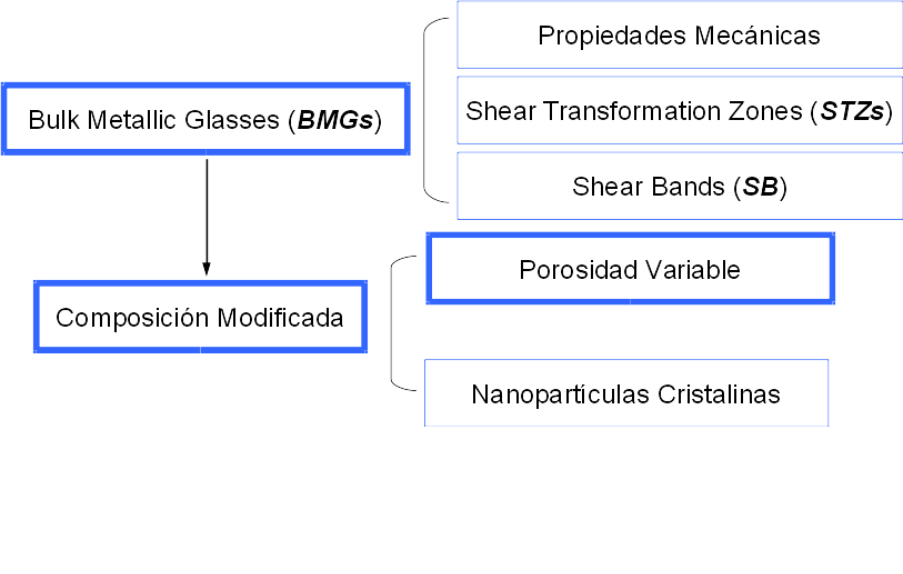
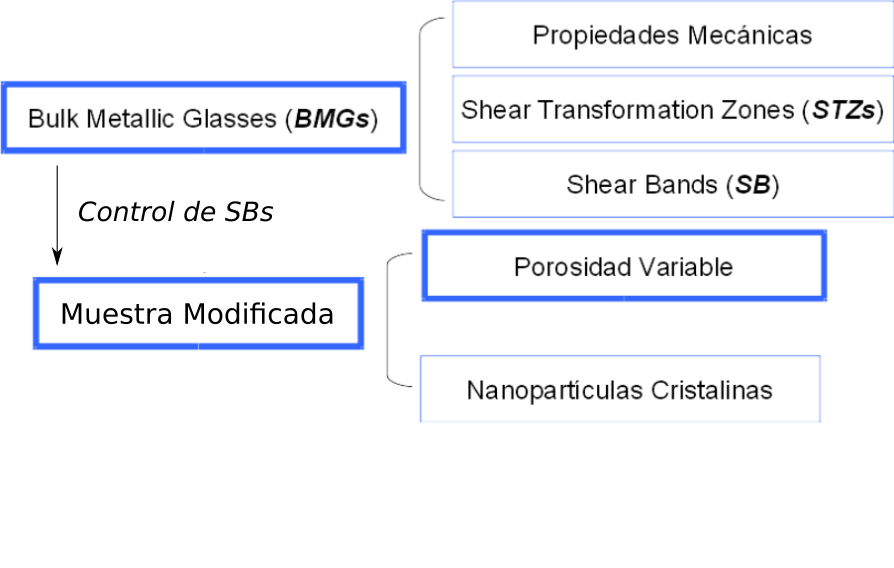
Cambios Eduardo (2)

Changed region(s): [[0.0604, 0.2694, 0.302, 0.4789], [0.0604, 0.5088, 0.3926, 0.5687], [0.0604, 0.419, 0.0906, 0.4489]]

diff --git a/Presentacion/Intro/Intro.tex b/Presentacion/Intro/Intro.tex
@@ -22,7 +22,7 @@
     \tikz[na]{\node[coordinate] (n1){};}
     \centering
     \begin{block}{Vidrio}
-      \centering Estructura amorfa (\scriptsize{Sílice - SiO$_{2}$}\normalsize{)}
+      \centering Sólido con estructura amorfa (\scriptsize{Sílice - SiO$_{2}$}\normalsize{)}
       
       \vspace{0.2cm}
       \includegraphics[width=3cm]{Cap_1/500px-Silica.png}
@@ -106,7 +106,7 @@
 \frametitle{Propiedades} 
 
 \ventaja{1}{{\begin{itemize}
-             \item Ausencia de efectos adversos debidos a fronteras de granos (resistencia a la corrosi\'on)
+             \item La ausencia de bordes de granos le otorga una gran resistencia a la corrosi\'on
             \end{itemize}
             }}
 \desventaja{1}{{\begin{itemize}
@@ -121,7 +121,7 @@
  \frametitle{Fabricación}
  \vspace{-0.15cm}
  \begin{block}{}
-    \textit{Te\'oricamente, todo l\'iquido podr\'ia convertirse en vidrio a velocidades de enfriamiento suficientemente altas y temperaturas suficientemente bajas evitando el proceso de cristalizaci\'on} (Turnbull et al, 1961)
+    \textit{Te\'oricamente, todo l\'iquido podr\'ia convertirse en vidrio a velocidades de enfriamiento suficientemente altas y temperaturas suficientemente bajas evitando el proceso de cristalizaci\'on} (Turnbull \textit{et al}, 1961)
  \end{block}
  
  %Las t\'ecnicas de fabricaci\'on act\'uan sobre la composici\'on, el volumen y la velocidad de enfriamiento
@@ -137,13 +137,14 @@
     \end{column}
     \begin{column}{6cm}
     \begin{alertblock}{Espesor}
-	Los vidrios met\'alicos volum\'etricos, o \textit{Bulk Metallic Glasses} en ingl\'es, tienen una secci\'on transversal de por lo menos algunos mil\'imetros.
+	Los vidrios met\'alicos volum\'etricos, o \textit{Bulk Metallic Glasses} en ingl\'es, tienen una secci\'on transversal considerable.
     \end{alertblock}
     \end{column}
   \end{columns}
  \end{textblock*}
- \begin{textblock*}{12.6cm}(0.5cm,9.2cm)
-  \scriptsize{Turnbull, D. and Cohen, M., \textit{J. Chem. Phys.}, \textbf{34(1)}, 120-125 (1961)}
+ \begin{textblock*}{12.6cm}(0.5cm,8.8cm)
+  \scriptsize{Turnbull, D. and Cohen, M., \textit{J. Chem. Phys.}, \textbf{34(1)}, 120-125 (1961)}\\
+  \scriptsize{Suryanarayana, C. and Inoue, A., \textit{Bulk Metallic Glasses}, CRC Press, (2011)}
   \end{textblock*}
 \end{frame}
 
@@ -152,7 +153,7 @@
  \begin{textblock*}{11.8cm}(0.5cm,1.8cm)
   \begin{block}{Bandas de corte}
   Concentraci\'on de deformaci\'on en bandas estrechas, llamadas \textbf{bandas de corte}.
-  El crecimiento de estas bandas puede causar la fractura fr\'agil del material (Schuh et al, 2007).
+  El crecimiento de estas bandas puede causar la fractura fr\'agil del material (Schuh \textit{et al}, 2007).
   \end{block}
  \end{textblock*}
  \vspace{-0.7cm}
@@ -164,7 +165,7 @@
  \end{textblock*}
 \begin{textblock*}{\textwidth}(1cm,8.2cm)
  \centering
- \scriptsize{Muestra de BMG bajo tracci\'on uniaxial. Adaptado de Albe et al, 2013}
+ \scriptsize{Muestra de BMG bajo tracci\'on uniaxial. Adaptado de Albe \textit{et al}, 2013}
 \end{textblock*}
 
  \begin{textblock*}{12.6cm}(0.5cm,8.9cm)
@@ -198,29 +199,48 @@
     \subfloat[MEMS]{
       \includegraphics[height=3cm]{Cap_1/MEMS_B.jpeg}}
     }
-    \only<3>{
+  \end{tabularx}
+  \end{figure}
+  \end{textblock*}
+  \only<3>{
+    \begin{textblock*}{12.6cm}(0cm,3cm)
+  \begin{figure}
+  \centering
+  \begin{tabularx}{\textwidth}{ccc}
      \subfloat[Filo est\'andar]{
       \includegraphics[height=3cm]{Cap_1/blade.png}}
       &
-      \hspace{1cm}
+      \hspace{0.5cm}
       \subfloat[Filo de BMG]{
 	\includegraphics[height=3cm]{Cap_1/BMG-blade.png}}
-    }
+      &
+      \hspace{0.5cm}
+      \subfloat[]{
+	\includegraphics[height=3cm]{Presentacion/blades.png}}
   \end{tabularx}
   \end{figure}
- \end{textblock*}
+  \end{textblock*}
+  }
+  
+  \begin{textblock*}{12.6cm}(0.5cm,7.6cm)
+  \begin{flushleft}
+	\scriptsize{Kakiuchi, H. \textit{et al}., \textit{Mater. Trans.}, \textbf{42}, 678 (2001)}\\         
+	\scriptsize{Schroers, J. \textit{et al}., \textit{Mater. Sci. Eng. A.}, \textbf{898}, 449-451 (2007)}\\
+	\scriptsize{J. A. Horton1 and D. E. Parsell, University of Mississippi Medical Center}
+  \end{flushleft}
+  \end{textblock*}
 \end{frame}
 
 \begin{frame}
  \frametitle{Objetivos}
  \vspace{0.5cm}
 \begin{itemize}
- \item Investigar el comportamiento en r\'egimen elasto-pl\'astico en grandes deformaciones de un metal amorfo binario a diferentes temperaturas
+ \item Investigar el comportamiento en r\'egimen elasto-pl\'astico en grandes deformaciones de un metal amorfo binario a diferentes temperaturas.
  \begin{itemize}
   \item Tensión-deformación, parámetros constitutivos, dependencia con la temperatura.
  \end{itemize}
  \vspace{0.3cm}
- \item Investigar los efectos de cambios en la composici\'on sobre las propiedades mec\'anicas
+ \item Investigar los efectos de cambios estructurales sobre las propiedades mec\'anicas y de qué manera esto ayuda a controlar las bandas de corte.
  \begin{itemize}
   \item Generar muestras modificadas: porosidad variable e inclusiones cristalinas
  \end{itemize}
@@ -231,16 +251,19 @@
  \frametitle{Metodología}
  \begin{figure}
   \centering
-  \includegraphics[width=10cm]{Presentacion/multiescala.png}
+  \includegraphics[width=9cm]{Presentacion/multiescala.png}
  \end{figure}
-
+  \begin{textblock*}{12.6cm}(0.5cm,8.8cm)
+    \scriptsize{NASA, \textit{Modeling Materials: Design for Planetary Entry, Electric Aircraft, and Beyond}}\\
+    \scriptsize{The George Washington University}
+  \end{textblock*}
 \end{frame}
 
 \begin{frame}
  \frametitle{Metodología}
  %\vspace{0.5cm}
  \begin{block}{Simulaciones Din\'amica Molecular (MD)}
-  Resuelve ecuaciones de Newton para un sistema de N mol\'eculas que interact\'uan seg\'un una funci\'on potencial
+  Resuelve ecuaciones de Newton para un sistema de N átomos que interact\'uan seg\'un una funci\'on potencial
  \end{block}
  \begin{textblock*}{12cm}(1.1cm,4.9cm)
   Proceso de simulación:
@@ -249,8 +272,8 @@
    \item Preparación del script de simulación para LAMMPS.
    \item Secuenciación de tareas.
    \item Ejecución de LAMMPS.
-   \item Generación de gráficas ''publication-ready''.
    \item Análisis: visual, atómico, termodinámico.
+   \item Generación de gráficas ''publication-ready''.
   \end{enumerate}
  \end{textblock*}
 \end{frame}

diff --git a/Presentacion/Carac/Carac.tex b/Presentacion/Carac/Carac.tex
@@ -29,7 +29,7 @@
     \vspace{0.1cm}
     \begin{itemize}
         \item Software: LAMMPS (lammps.sandia.gov) para simulaci\'on, Ovito (www.ovito.org) para visualizaci\'on, Gnuplot/Shell/Python para an\'alisis
-        \item Muestra: Cu$_{46}$Zr$_{54}$, descripta por Arman et al., 2010.
+        \item Muestra: Cu$_{46}$Zr$_{54}$, descripta por Arman \textit{et al}., 2010.
         \begin{itemize}
 	  \item 160k \'atomos.
 	  \item Velocidad de enfriamiento de 10$^{12}$K/s 
@@ -161,7 +161,7 @@
   \end{figure}
  \end{textblock*}
  \begin{textblock*}{4.5cm}(8cm,2.5cm)
-      Expresi\'on adaptada de Cheng et al. (2011) :\\
+      Expresi\'on adaptada de Cheng \textit{et al}. (2011) :\\
 	$\sigma_y/G =A+B(T/T_g)^{2/3}$
   \end{textblock*}
   \begin{textblock*}{4.5cm}(8cm,4.5cm)
@@ -282,7 +282,7 @@
   \end{textblock*}
   \begin{textblock*}{9cm}(0cm,7.7cm)
    \centering
-   \small{Son similares a las de nanoalambres de vidrios met\'alicos vistas en Xiao et al. (2012).\\}
+   \small{Son similares a las de nanoalambres de vidrios met\'alicos vistas en Xiao \textit{et al}. (2012).\\}
   \end{textblock*}
   
   \only<1>{
